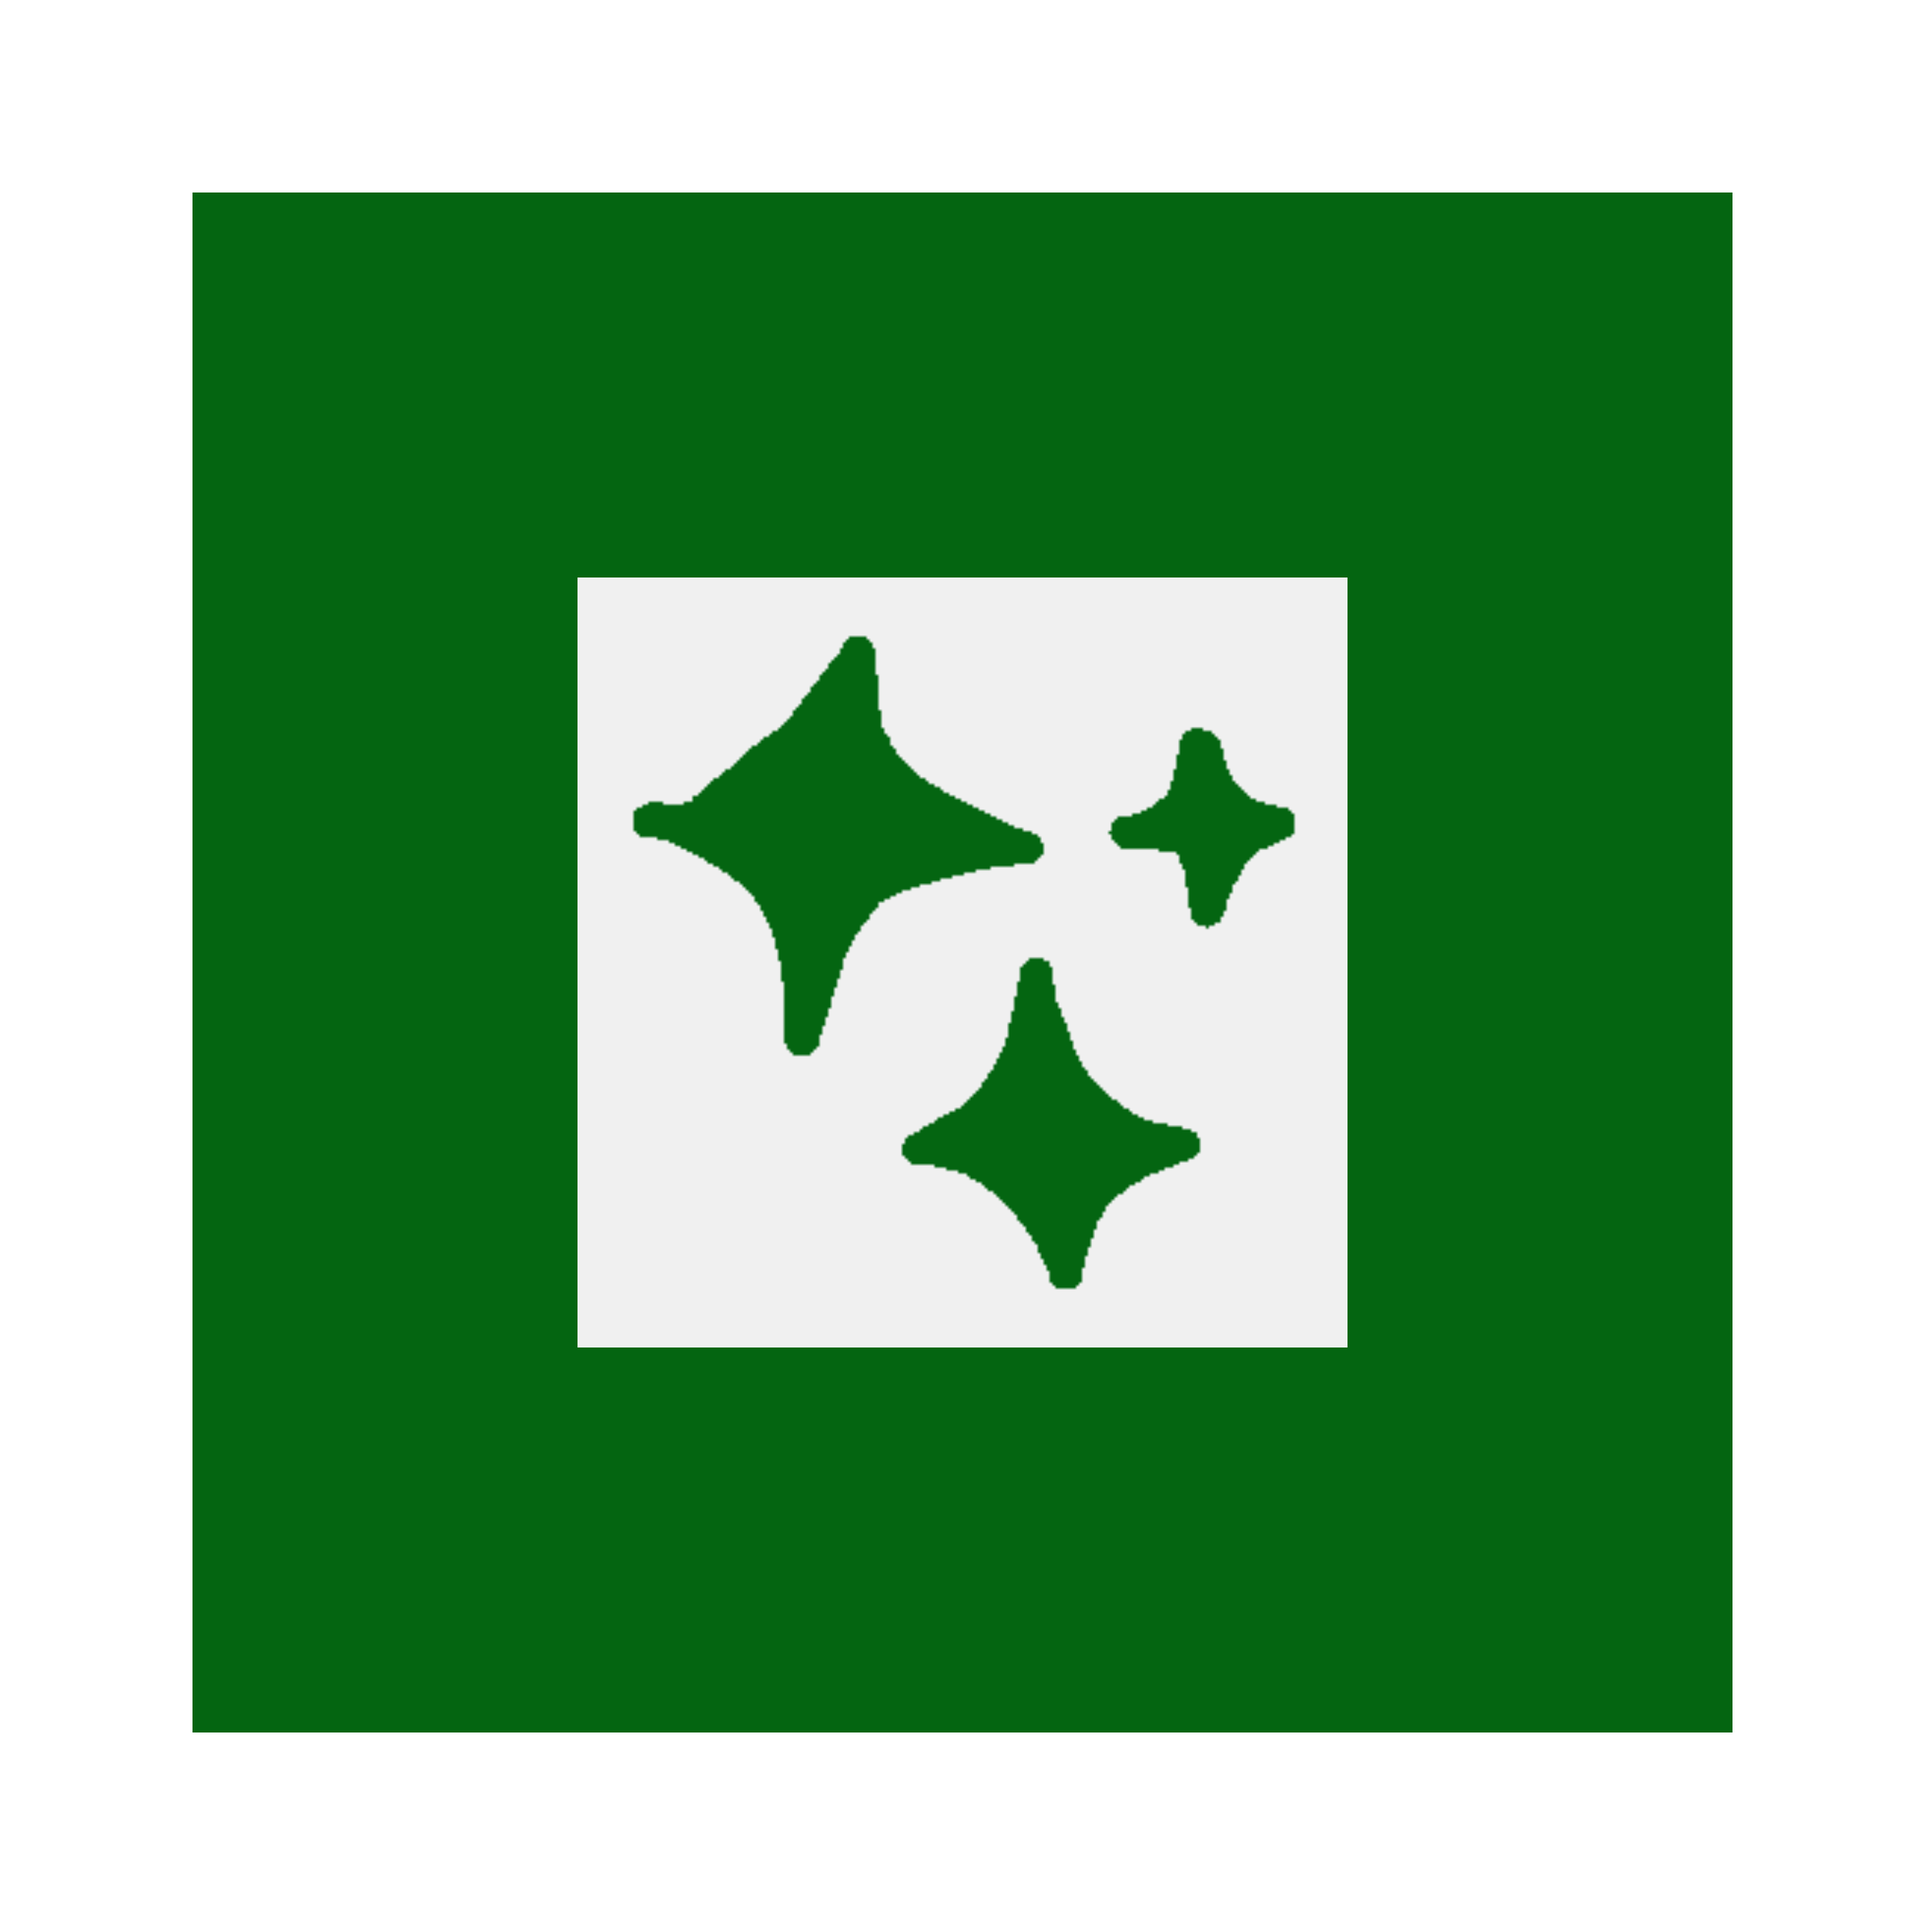
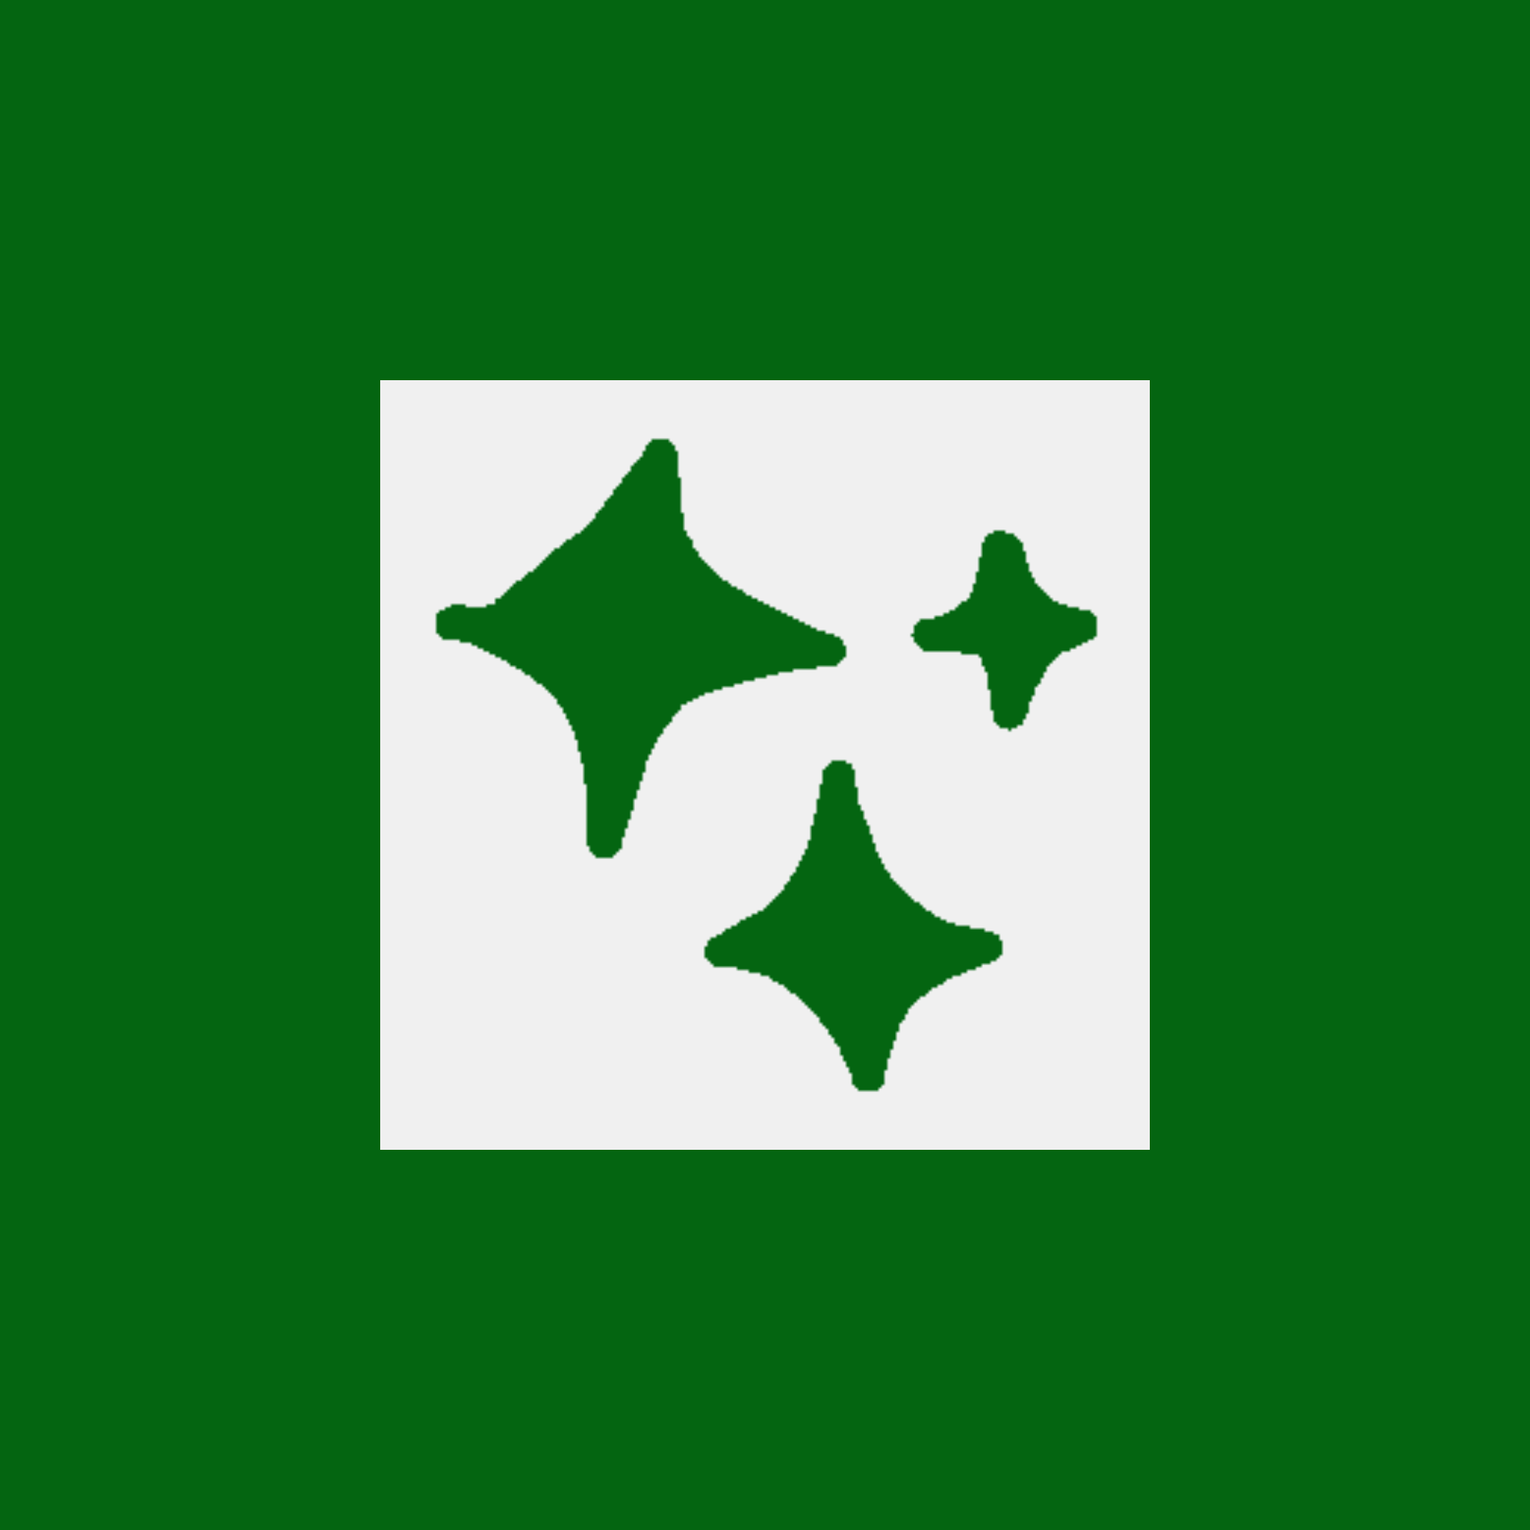
change marker

diff --git a/index.html b/index.html
@@ -465,7 +465,7 @@
         padding-bottom: 10svh;
       "
     >
-      <p>Arahkan kameramu ke<br />logo Moon Muffin:</p>
+      <p>Arahkan kameramu ke<br />marker Moon Muffin:</p>
       <div
         style="
           display: flex;
@@ -478,11 +478,38 @@
           src="./assets/images/line-decoration-left.png"
           style="width: 10svh; max-width: 15vw; height: auto"
         />
-        <img
-          src="./pattern-highfive-white.png"
-          style="width: 24svh; max-width: 40vw; height: auto"
-        />
-        <img
+        <span
+          style="
+            position: relative;
+            width: 24svh;
+            height: 40svh;
+            display: flex;
+            justify-content: center;
+          "
+        >
+          <img
+            src="./pattern-sparkle-white.png"
+            style="
+              padding-top: 3svh;
+              width: 15svh;
+              max-width: 40vw;
+              height: 15svh;
+              transform: rotate(-5deg);
+              margin-left: 4svh;
+            "
+          /><img
+            src="./pattern-highfive-white.png"
+            style="
+              width: 18svh;
+              max-width: 30vw;
+              height: auto;
+              position: absolute;
+              top: 20svh;
+              left: 0;
+              transform: rotate(10deg);
+            "
+          /> </span
+        ><img
           src="./assets/images/line-decoration-right.png"
           style="width: 10svh; max-width: 15vw; height: auto"
         />
